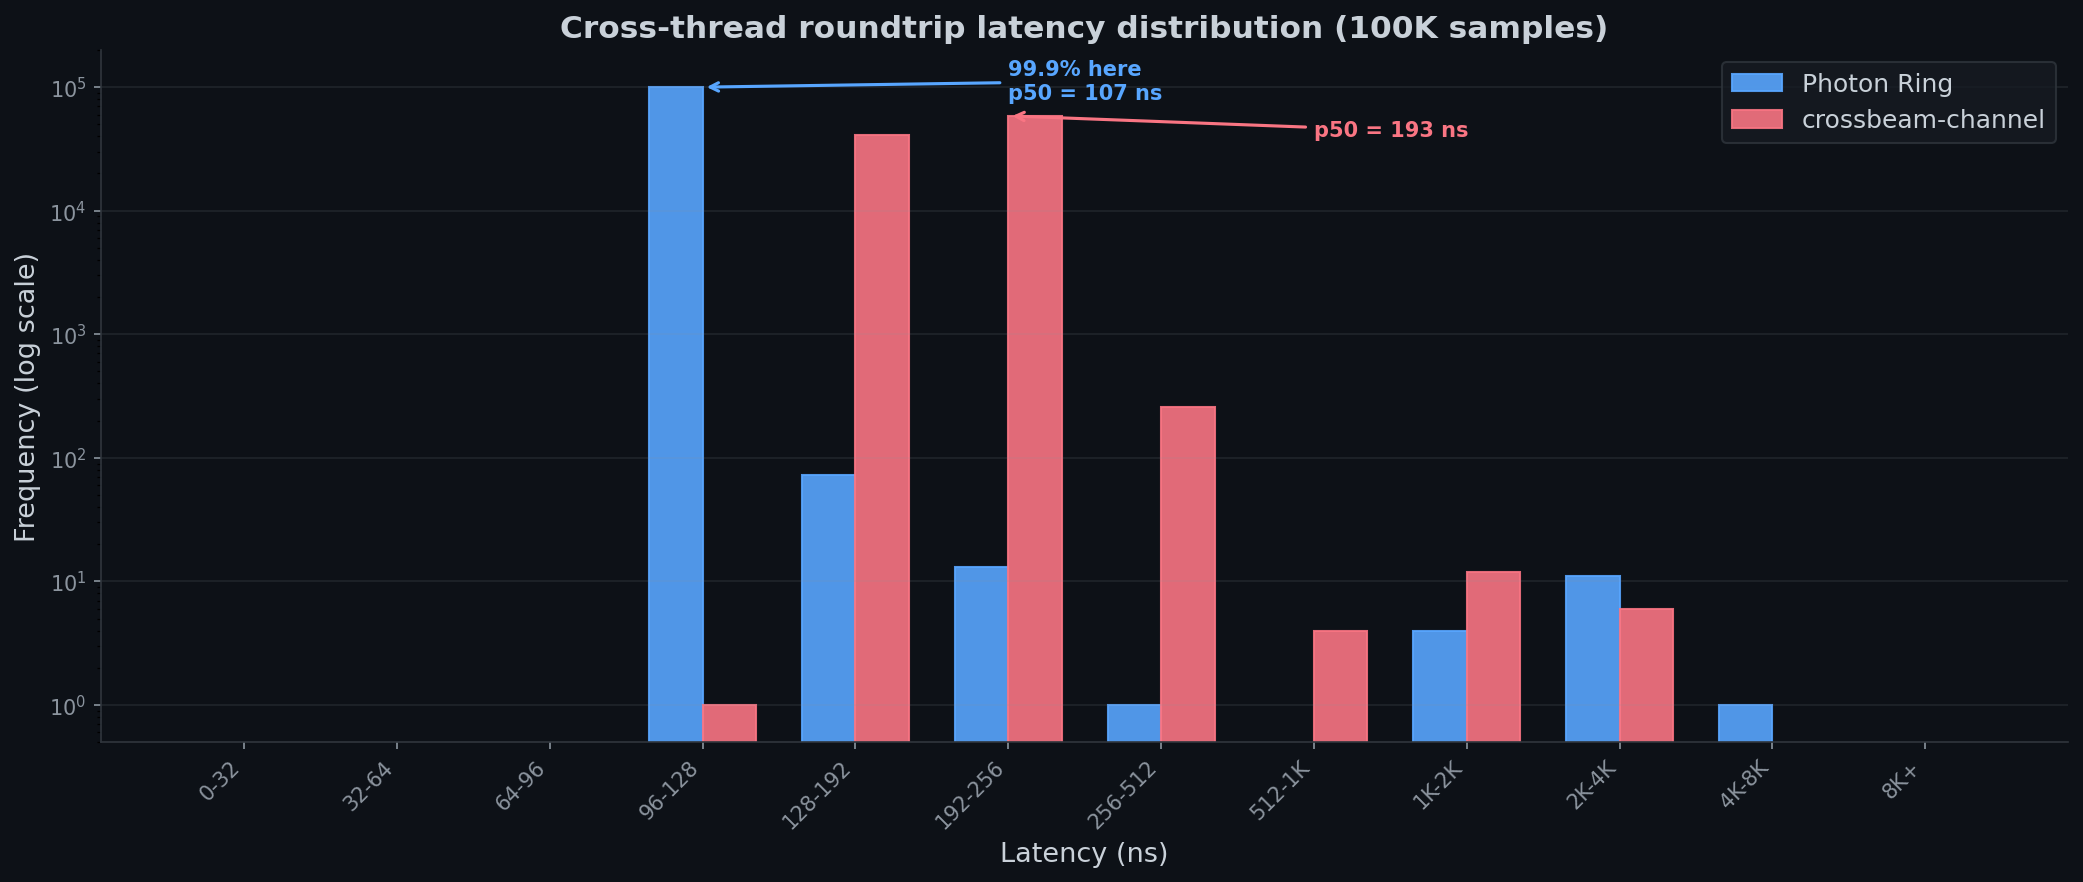
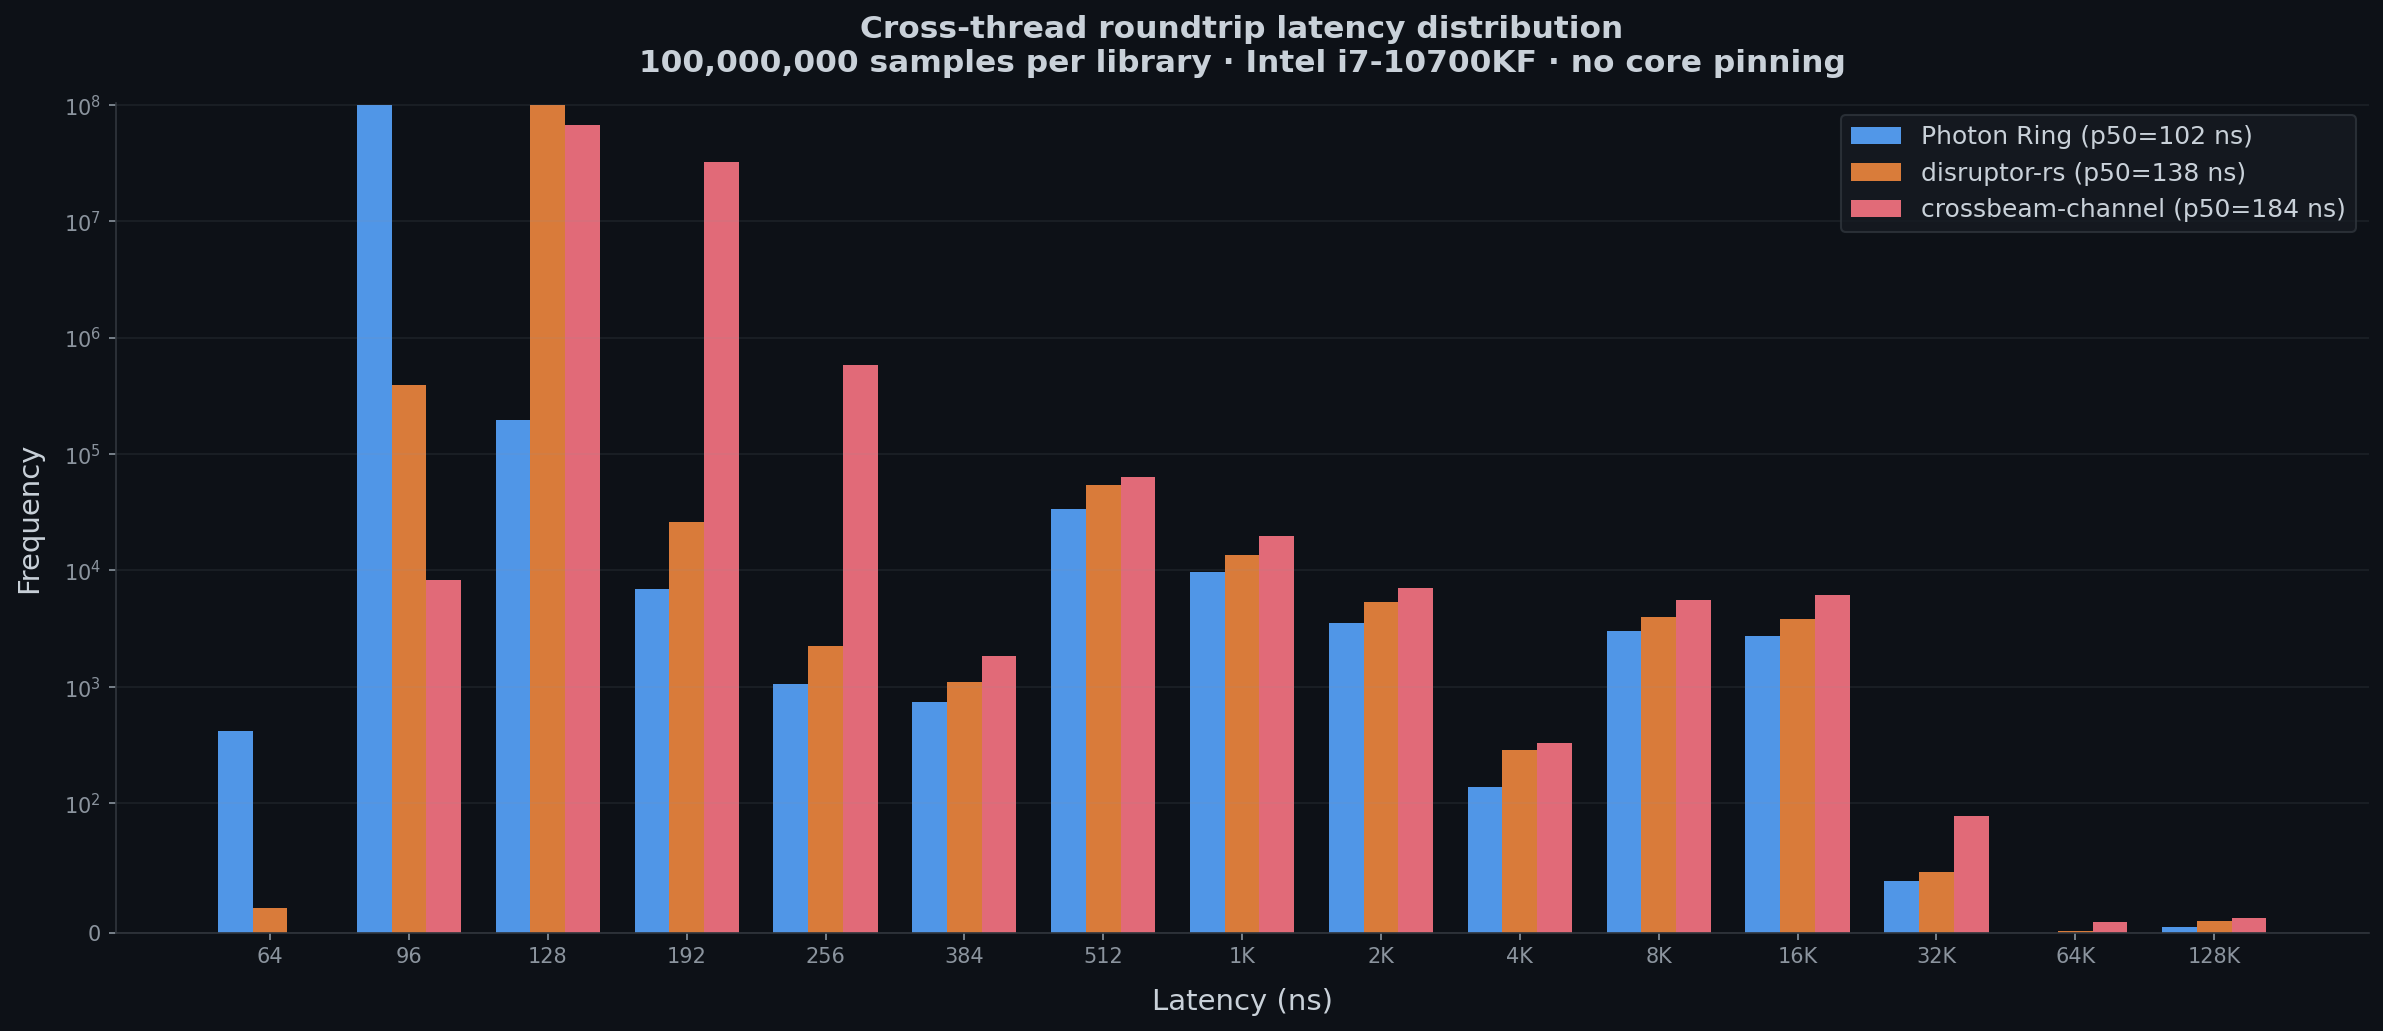
100M-sample latency histogram: Photon Ring vs disruptor-rs vs crossbeam

diff --git a/scripts/latency_histogram.rs b/scripts/latency_histogram.rs
@@ -1,0 +1,164 @@
+// Copyright 2026 Photon Ring Contributors
+// SPDX-License-Identifier: Apache-2.0
+
+//! Collects cross-thread roundtrip latency samples for:
+//! - Photon Ring
+//! - disruptor-rs v4.0.0
+//! - crossbeam-channel
+//!
+//! Outputs CSV for histogram generation.
+
+use std::sync::atomic::{AtomicBool, AtomicU64, Ordering};
+use std::sync::Arc;
+use std::thread;
+use std::time::Instant;
+
+const WARMUP: u64 = 1_000_000;
+const SAMPLES: u64 = 100_000_000;
+
+fn measure_photon() -> Vec<u64> {
+    eprintln!("Photon Ring: collecting {} samples...", SAMPLES);
+    let (mut p, s) = photon_ring::channel::<u64>(4096);
+    let mut sub = s.subscribe();
+    let done = Arc::new(AtomicBool::new(false));
+    let seen = Arc::new(AtomicU64::new(u64::MAX));
+    let d2 = done.clone();
+    let s2 = seen.clone();
+
+    let reader = thread::spawn(move || {
+        while !d2.load(Ordering::Relaxed) {
+            if let Ok(v) = sub.try_recv() {
+                s2.store(v, Ordering::Release);
+            }
+        }
+    });
+
+    for i in 0..WARMUP {
+        p.publish(i);
+        while seen.load(Ordering::Acquire) != i { core::hint::spin_loop(); }
+    }
+
+    let mut lat = Vec::with_capacity(SAMPLES as usize);
+    for i in WARMUP..(WARMUP + SAMPLES) {
+        let t = Instant::now();
+        p.publish(i);
+        while seen.load(Ordering::Acquire) != i { core::hint::spin_loop(); }
+        lat.push(t.elapsed().as_nanos() as u64);
+    }
+
+    done.store(true, Ordering::Relaxed);
+    reader.join().unwrap();
+    lat
+}
+
+fn measure_crossbeam() -> Vec<u64> {
+    eprintln!("crossbeam-channel: collecting {} samples...", SAMPLES);
+    let (tx, rx) = crossbeam_channel::bounded::<u64>(4096);
+    let done = Arc::new(AtomicBool::new(false));
+    let seen = Arc::new(AtomicU64::new(u64::MAX));
+    let d2 = done.clone();
+    let s2 = seen.clone();
+
+    let reader = thread::spawn(move || {
+        while !d2.load(Ordering::Relaxed) {
+            if let Ok(v) = rx.try_recv() {
+                s2.store(v, Ordering::Release);
+            }
+        }
+    });
+
+    for i in 0..WARMUP {
+        tx.send(i).unwrap();
+        while seen.load(Ordering::Acquire) != i { core::hint::spin_loop(); }
+    }
+
+    let mut lat = Vec::with_capacity(SAMPLES as usize);
+    for i in WARMUP..(WARMUP + SAMPLES) {
+        let t = Instant::now();
+        tx.send(i).unwrap();
+        while seen.load(Ordering::Acquire) != i { core::hint::spin_loop(); }
+        lat.push(t.elapsed().as_nanos() as u64);
+    }
+
+    done.store(true, Ordering::Relaxed);
+    reader.join().unwrap();
+    lat
+}
+
+fn measure_disruptor() -> Vec<u64> {
+    use disruptor::*;
+
+    eprintln!("disruptor-rs: collecting {} samples...", SAMPLES);
+    let counter = Arc::new(AtomicU64::new(u64::MAX));
+    let c2 = counter.clone();
+    let mut producer = build_single_producer(4096, || 0u64, BusySpin)
+        .handle_events_with(move |e: &u64, _, _| {
+            c2.store(*e, Ordering::Release);
+        })
+        .build();
+
+    for i in 0..WARMUP {
+        producer.publish(|slot| { *slot = i; });
+        while counter.load(Ordering::Acquire) != i { core::hint::spin_loop(); }
+    }
+
+    let mut lat = Vec::with_capacity(SAMPLES as usize);
+    for i in WARMUP..(WARMUP + SAMPLES) {
+        let t = Instant::now();
+        producer.publish(|slot| { *slot = i; });
+        while counter.load(Ordering::Acquire) != i { core::hint::spin_loop(); }
+        lat.push(t.elapsed().as_nanos() as u64);
+    }
+
+    lat
+}
+
+fn to_histogram(data: &[u64], buckets: &[u64]) -> Vec<u64> {
+    let mut counts = vec![0u64; buckets.len()];
+    for &v in data {
+        let mut placed = false;
+        for i in (0..buckets.len()).rev() {
+            if v >= buckets[i] {
+                counts[i] += 1;
+                placed = true;
+                break;
+            }
+        }
+        if !placed { counts[0] += 1; }
+    }
+    counts
+}
+
+fn main() {
+    let photon = measure_photon();
+    let crossbeam = measure_crossbeam();
+    let disruptor = measure_disruptor();
+
+    let buckets: Vec<u64> = vec![
+        0, 16, 32, 64, 96, 128, 192, 256, 384, 512,
+        1024, 2048, 4096, 8192, 16384, 32768, 65536,
+        131072, 262144, 524288, 1048576, 4194304, 8388608,
+    ];
+
+    let ph = to_histogram(&photon, &buckets);
+    let ch = to_histogram(&crossbeam, &buckets);
+    let dh = to_histogram(&disruptor, &buckets);
+
+    println!("bucket_start,photon_ring,crossbeam,disruptor");
+    for (i, b) in buckets.iter().enumerate() {
+        if ph[i] > 0 || ch[i] > 0 || dh[i] > 0 {
+            println!("{},{},{},{}", b, ph[i], ch[i], dh[i]);
+        }
+    }
+
+    let stats = |name: &str, d: &mut Vec<u64>| {
+        d.sort_unstable();
+        let n = d.len();
+        eprintln!("{}: p50={} p99={} p999={} min={} max={}",
+            name, d[n/2], d[n*99/100], d[n*999/1000], d[0], d[n-1]);
+    };
+    let mut p = photon; let mut c = crossbeam; let mut d = disruptor;
+    stats("Photon Ring", &mut p);
+    stats("crossbeam  ", &mut c);
+    stats("disruptor  ", &mut d);
+}

diff --git a/README.md b/README.md
@@ -145,15 +145,6 @@ Measured with Criterion on an **Intel i7-10700KF** (8C/16T, 3.80 GHz, Linux 6.8,
   One-way latency (RDTSC)             48 ns p50     —
 ```
 
-### Latency distribution
-
-100,000 cross-thread roundtrip samples on Intel i7-10700KF, no core pinning:
-
-![Latency histogram](docs/images/latency-histogram.png)
-
-Photon Ring: **99.9% of samples in the 96-128 ns bucket** (p50 = 107 ns, p99 = 116 ns).
-crossbeam-channel spreads across 128-256 ns (p50 = 193 ns, p99 = 250 ns).
-
 ### Throughput
 
 - **Sustained throughput:** about 300M msg/s on Intel and 88M msg/s on M1 Pro
